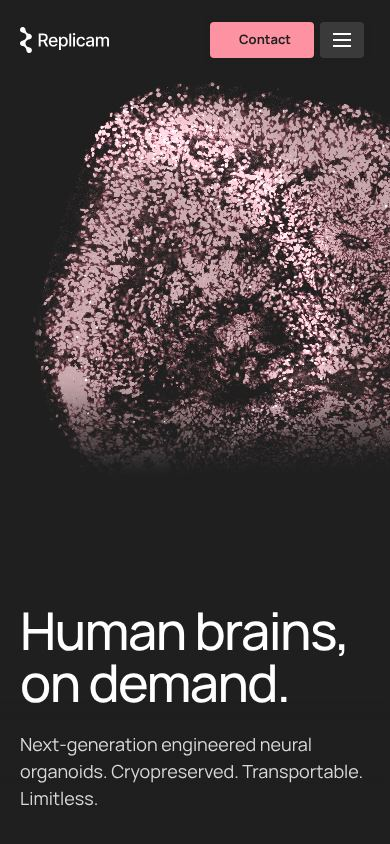
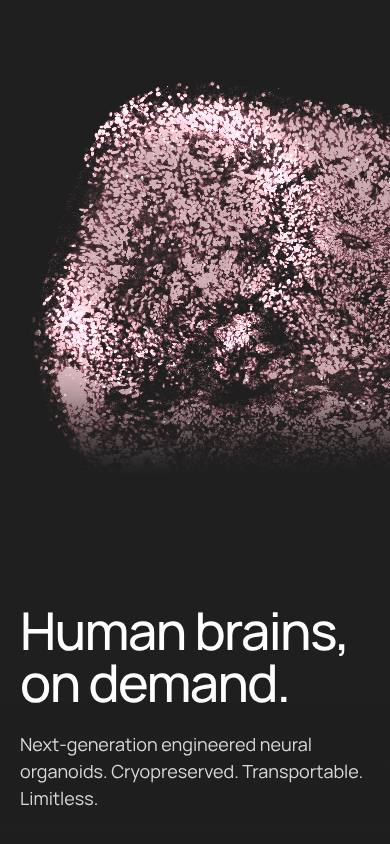
Page switcher: real header on every sheet, matching the live page

Changed region(s): [[0.0923, 0.0, 1.0, 0.5237], [0.0308, 0.0308, 0.2769, 0.0616], [0.4, 0.4929, 0.4308, 0.5237]]

diff --git a/assets/js/site.js b/assets/js/site.js
@@ -167,7 +167,28 @@ if (/[?&]pt-preview\b/.test(location.search)) document.documentElement.classList
     el.className = 'pt-layer ' + cls; if (html) el.innerHTML = html;
     root.appendChild(el); return el;           // outside <body>, so body transforms don't move it
   }
-  function sheet(i) { return layer('pt-sheet', '<img alt="" src="' + snapSrc(i) + '">'); }
+  // A sheet = a snapshot of the page (taken without its header) + a real header, laid out by the same CSS
+  // as the live one, so the logo and buttons sit exactly where they do on the page at any window size.
+  function sheetNav(i) {
+    var n = nav.cloneNode(true);
+    n.className = 'nav'; n.removeAttribute('style'); n.setAttribute('aria-hidden', 'true'); n.inert = true;
+    n.querySelectorAll('.nav-bg, .nav-ghost').forEach(function (x) { x.remove(); });
+    n.querySelectorAll('[style]').forEach(function (x) { x.removeAttribute('style'); });
+    n.querySelectorAll('[id]').forEach(function (x) { x.removeAttribute('id'); });
+    n.querySelectorAll('[aria-current]').forEach(function (x) { x.removeAttribute('aria-current'); });
+    n.querySelectorAll('.is-current').forEach(function (x) { x.classList.remove('is-current'); });
+    n.querySelectorAll('a.nav-link').forEach(function (a) {
+      if (pageIndex(new URL(a.getAttribute('href'), location.href)) !== i) return;
+      a.setAttribute('aria-current', 'page');
+      if (a.parentNode.tagName === 'LI') a.parentNode.classList.add('is-current');
+    });
+    return n;
+  }
+  function sheet(i) {
+    var el = layer('pt-sheet', '<img class="pt-snap" alt="" src="' + snapSrc(i) + '">');
+    if (nav) el.appendChild(sheetNav(i));
+    return el;
+  }
   function pinNav() {                           // a transformed body re-anchors position:fixed children
     if (!nav) return;
     nav.style.position = 'absolute'; nav.style.top = (window.scrollY + 16) + 'px';

diff --git a/assets/css/site.css b/assets/css/site.css
@@ -272,9 +272,14 @@ html.pt-entering body { transform: translateY(13vh) scale(.88); transform-origin
   border-radius: 16px; transform-origin: 50% 0; pointer-events: none; will-change: transform;
 }
 .pt-backdrop { border-radius: 0; background: #3A3A3A; z-index: 1; }
-.pt-sheet { background: var(--ink); overflow: hidden; box-shadow: 0 -1px 0 rgba(255,255,255,.06); }
-.pt-sheet img { position: absolute; inset: 0; width: 100%; height: 100%; object-fit: cover; object-position: top center; }
-.pt-frame { position: absolute; inset: 0; width: 100%; height: 100%; border: 0; opacity: 0; transition: opacity .3s ease; background: transparent; }
+.pt-sheet { font-family: "Manrope", system-ui, sans-serif; line-height: 1.5; background: var(--ink); overflow: hidden; box-shadow: 0 -1px 0 rgba(255,255,255,.06); }
+/* fitted to the sheet's width, so a window of another shape never crops the snapshot's sides */
+.pt-snap { position: absolute; left: 0; top: 0; width: 100%; height: auto; }
+/* each sheet's header is real markup with the live header's layout (the snapshots are taken without one) */
+.pt-sheet .nav { position: absolute; top: 16px; z-index: 1; -webkit-transform: none; transform: none; }
+.pt-sheet .nav-bar { background: rgba(31,31,31,.72); }
+.pt-sheet .nav-inner > * { pointer-events: none; }
+.pt-frame { z-index: 2; position: absolute; inset: 0; width: 100%; height: 100%; border: 0; opacity: 0; transition: opacity .3s ease; background: transparent; }
 .pt-sheet.is-loaded .pt-frame { opacity: 1; }
 /* Page shown inside the transition sheet: no scrollbar, content already revealed */
 html.pt-preview { scrollbar-width: none; }
